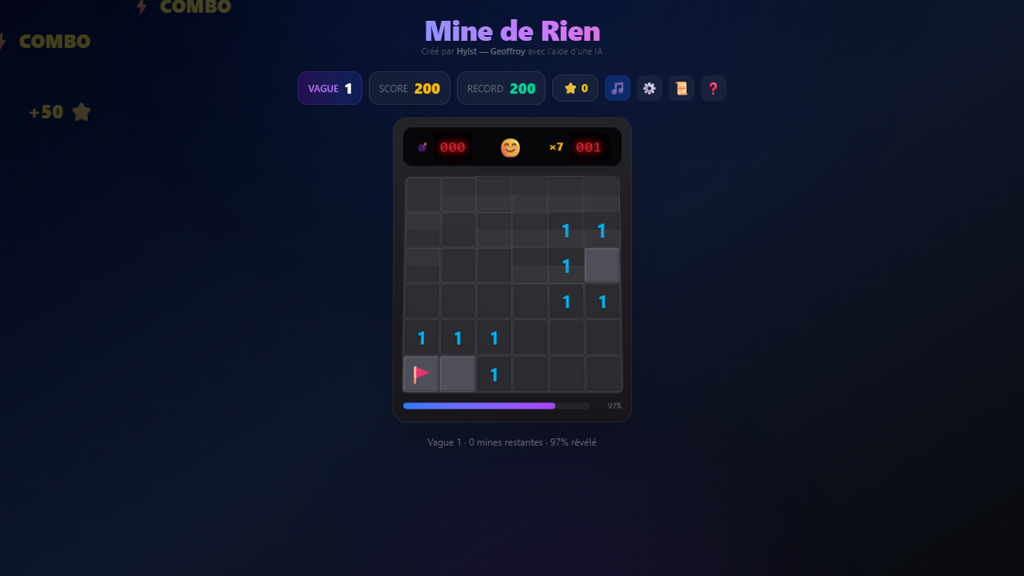
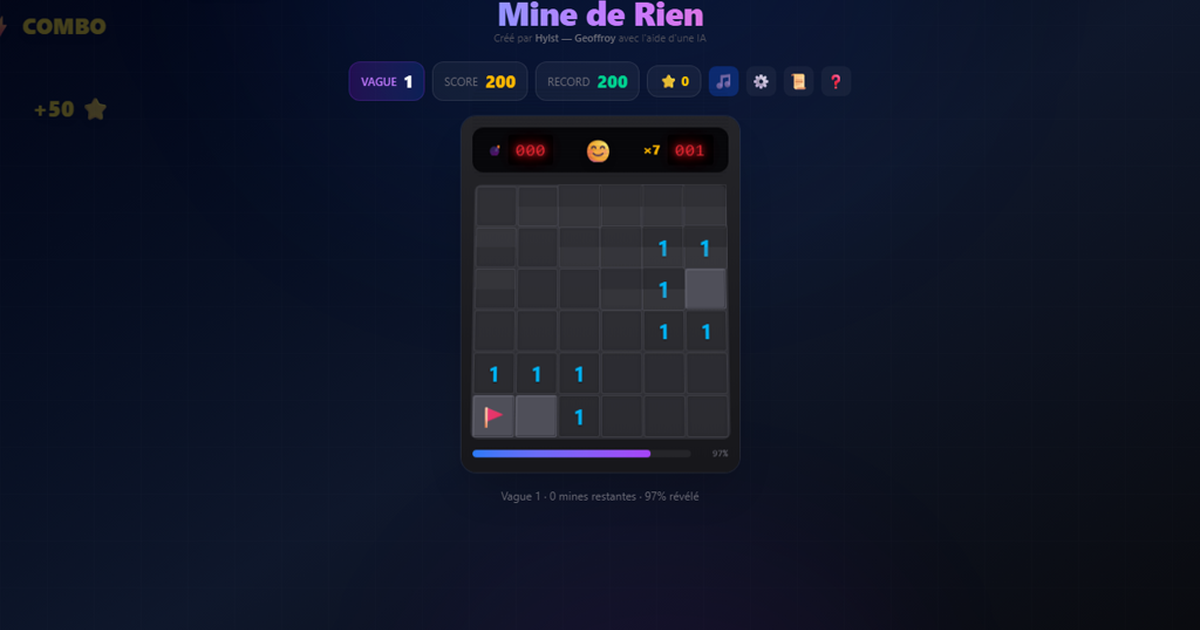
Open Graph : image 1200 x 630 et metadonnees completes

diff --git a/index.html b/index.html
@@ -9,13 +9,17 @@
     <meta property="og:type" content="website" />
     <meta property="og:title" content="Mine de Rien, le démineur à vagues et bonus" />
     <meta property="og:description" content="Un démineur par vagues avec pouvoirs, combos et bonus cachés. La grille grandit à chaque vague. Jouable directement dans le navigateur." />
-    <meta property="og:image" content="https://games.hylst.fr/minederien/og-image.png" />
+    <meta property="og:image" content="https://games.hylst.fr/minederien/og-image.png?v=2" />
+    <meta property="og:image:type" content="image/png" />
+    <meta property="og:image:width" content="1200" />
+    <meta property="og:image:height" content="630" />
+    <meta property="og:image:alt" content="Mine de Rien, le démineur à vagues et bonus" />
     <meta property="og:url" content="https://games.hylst.fr/minederien/" />
     <meta property="og:site_name" content="Hylst.Games" />
     <meta name="twitter:card" content="summary_large_image" />
     <meta name="twitter:title" content="Mine de Rien, le démineur à vagues et bonus" />
     <meta name="twitter:description" content="Un démineur par vagues avec pouvoirs, combos et bonus cachés." />
-    <meta name="twitter:image" content="https://games.hylst.fr/minederien/og-image.png" />
+    <meta name="twitter:image" content="https://games.hylst.fr/minederien/og-image.png?v=2" />
     <meta name="robots" content="index, follow" />
     <meta name="theme-color" content="#0f172a" />
     <link rel="canonical" href="https://games.hylst.fr/minederien/" />
